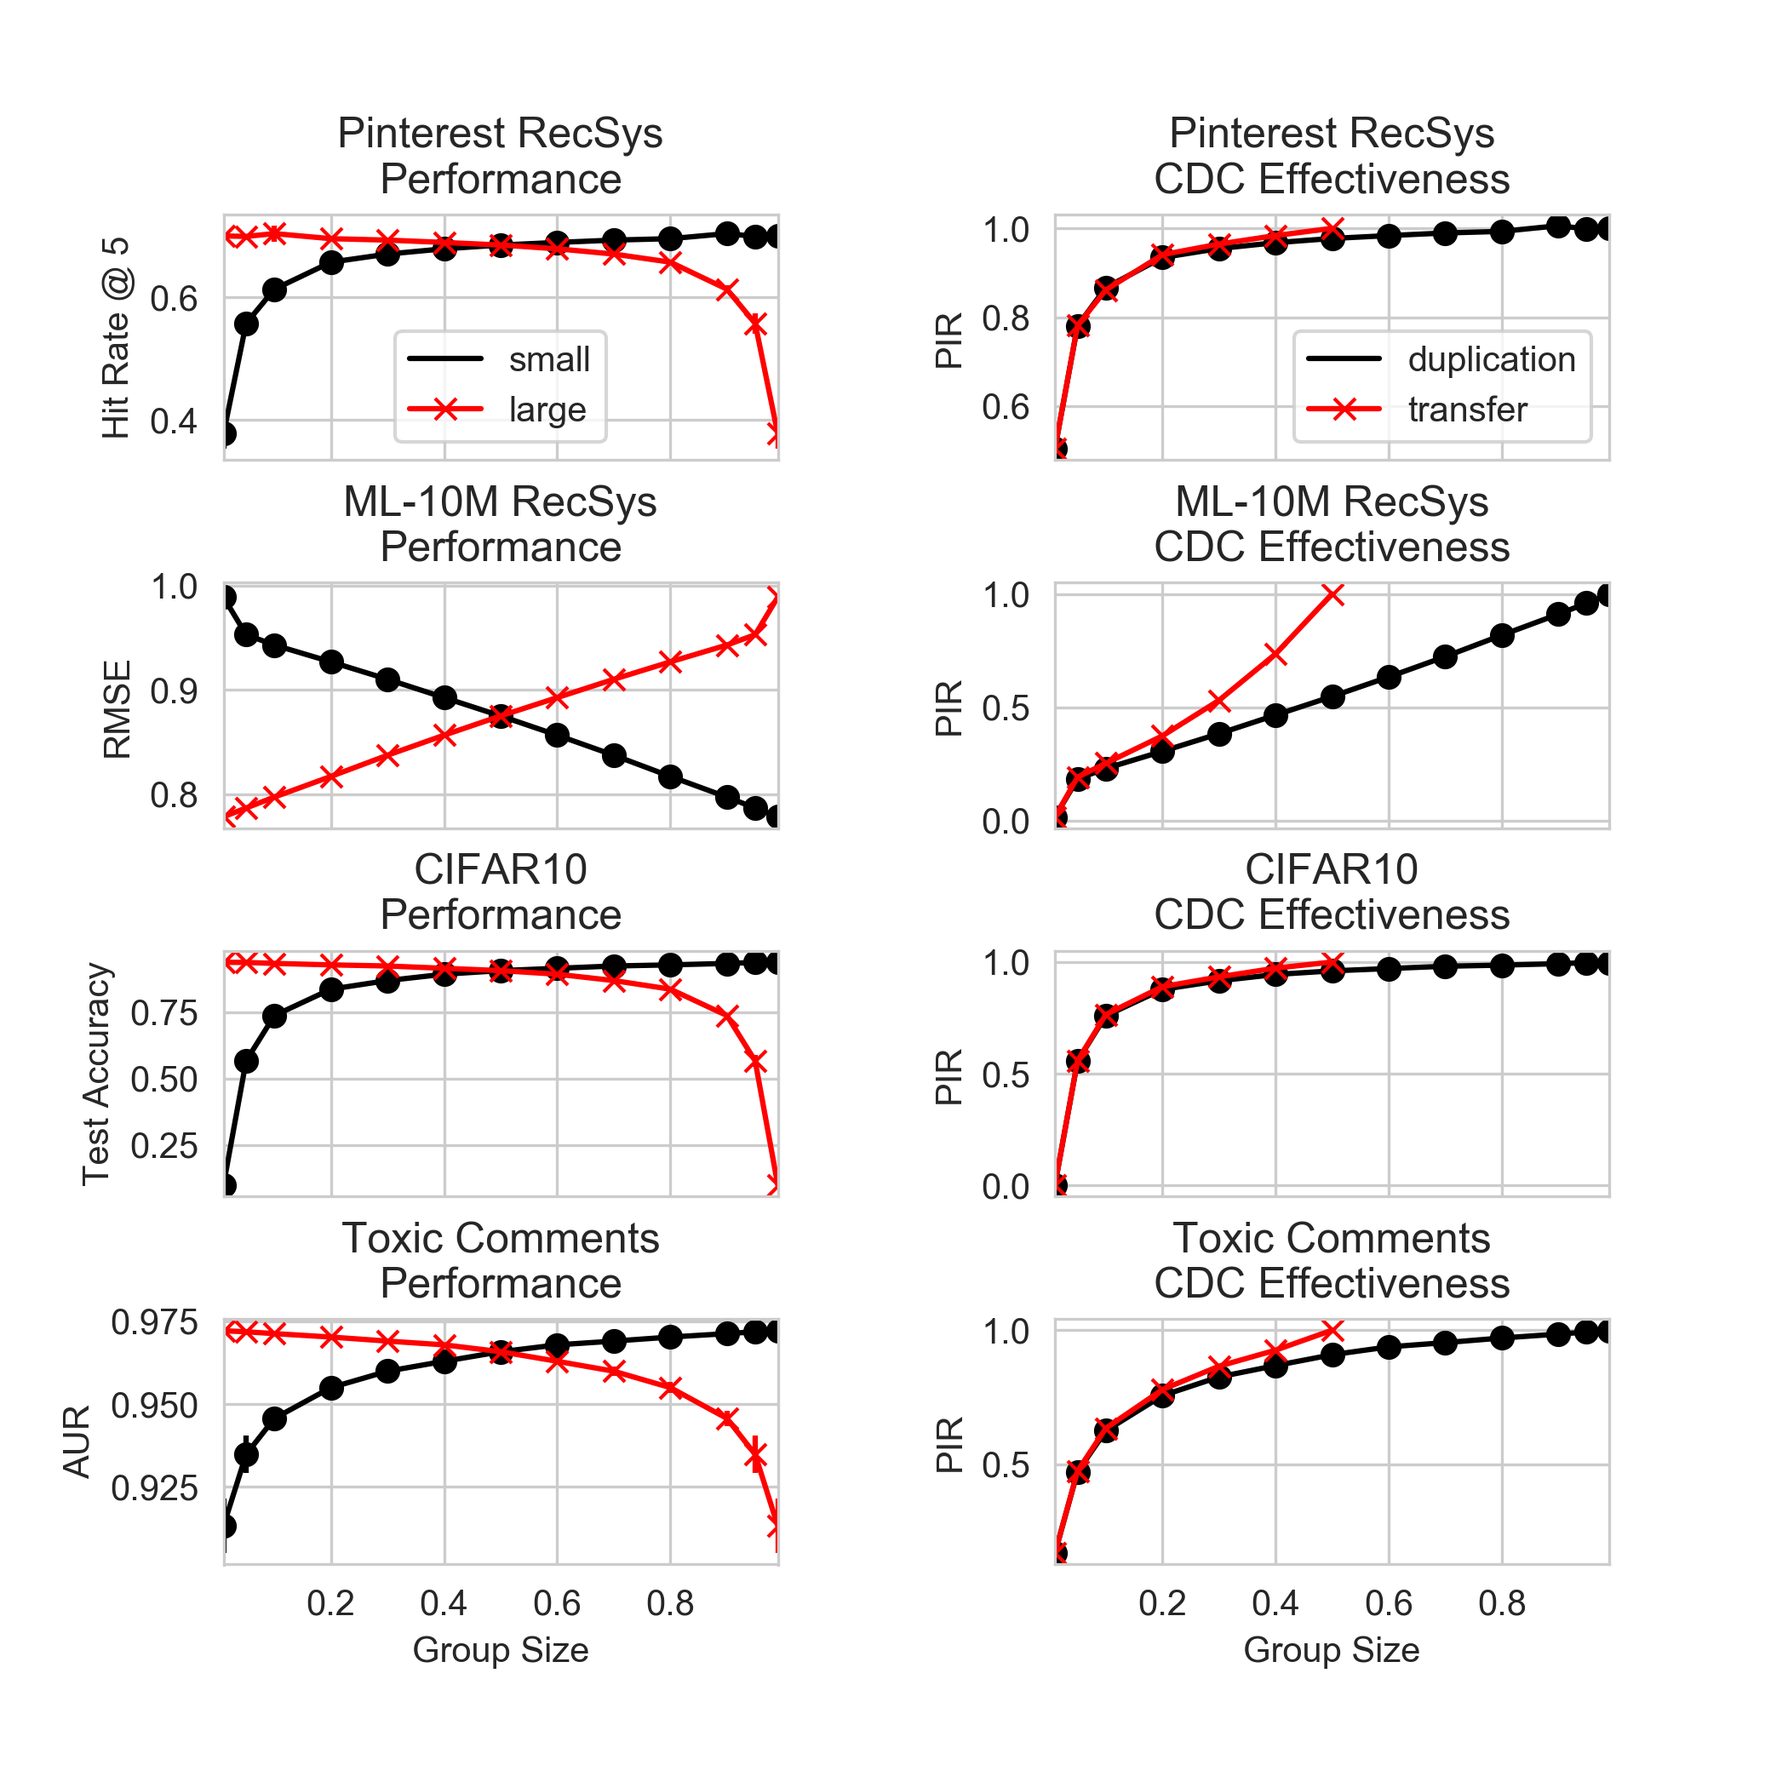
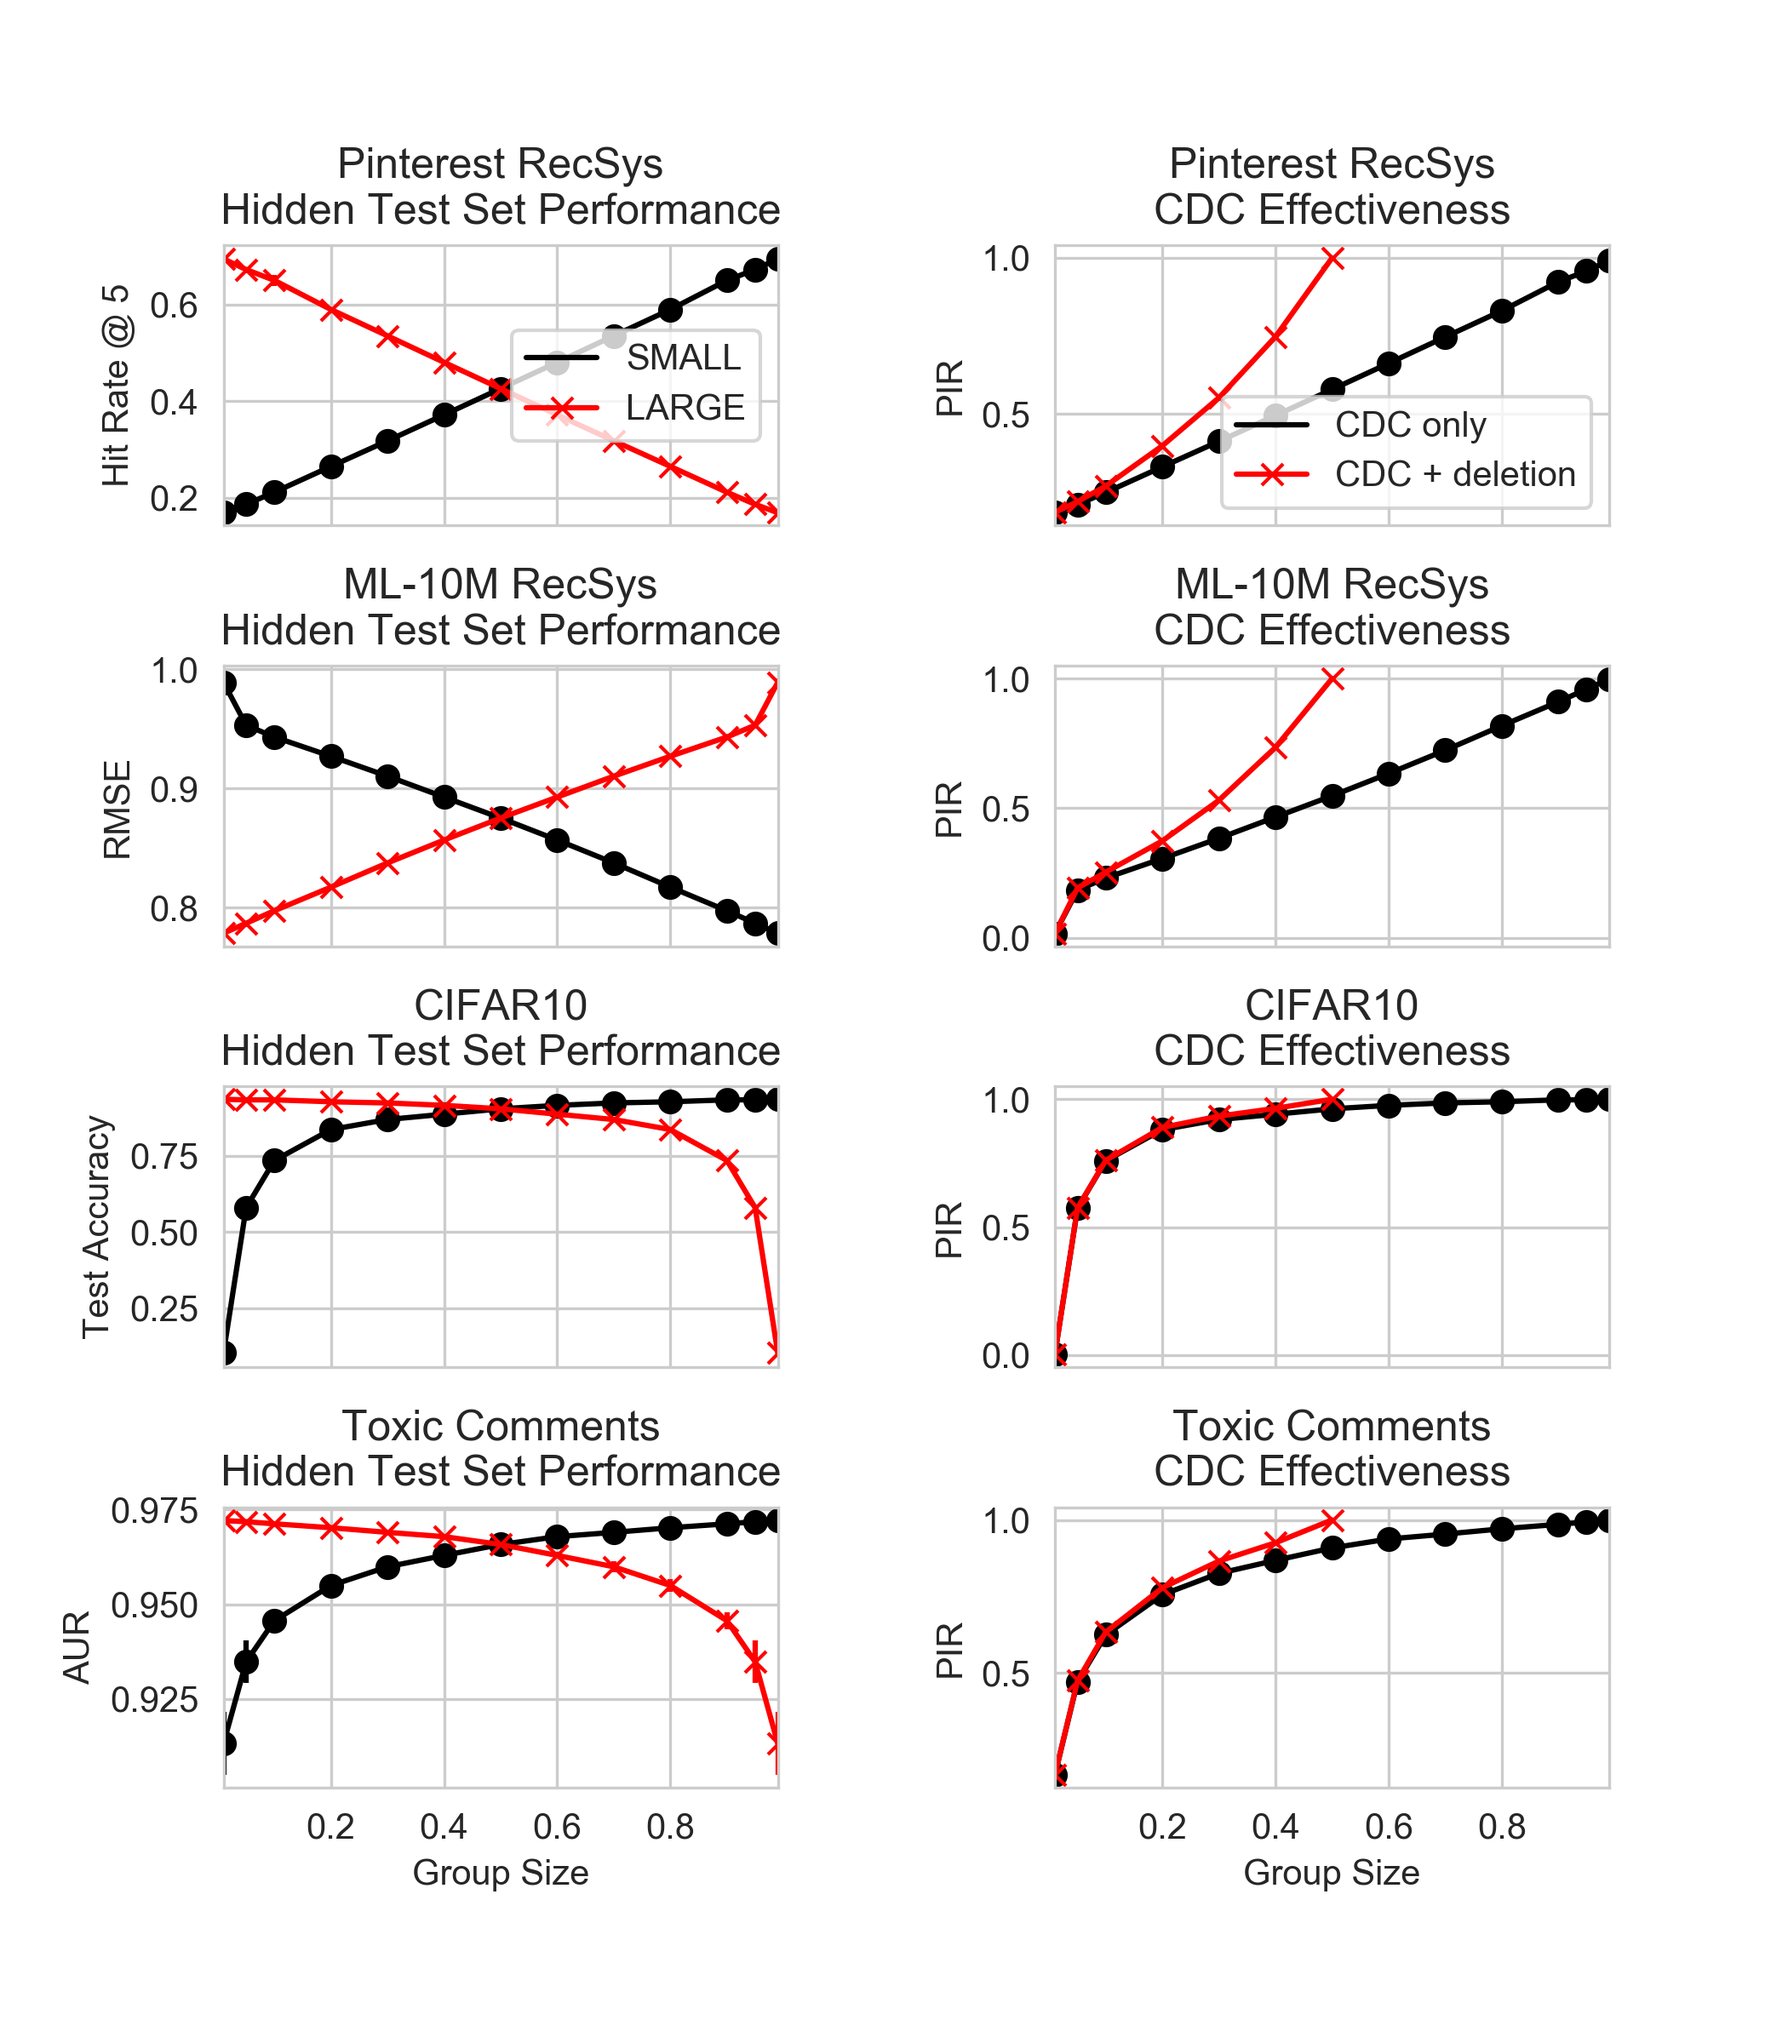
finish merge of tweaks + vandalism WIP

diff --git a/cdc_split.py b/cdc_split.py
@@ -6,19 +6,27 @@ import os
 from sklearn.feature_extraction.text import TfidfVectorizer
 from scipy.sparse import hstack, save_npz
 import sys
+# import argparse
+
+# parser = argparse.ArgumentParser(description='Split data for a data leverage campaign')
+# parser.add_argument('integers', metavar='N', type=int, nargs='+',
+#                     help='an integer for the accumulator')
+# parser.add_argument('--sum', dest='accumulate', action='store_const',
+#                     const=sum, default=max,
+#                     help='sum the integers (default: find the max)')
+
+# args = parser.parse_args()
 #%%
 # fracs = []
 # for i in range(1, 20):
 #     fracs.append(round(i * 0.05, 2)
+#if fracs == 'full':
 fracs = [0.01, 0.05, .1, .2, .3, .4, 0.5,]
 seeds = [0,1,2,3,4]
 seeds = [5,6,7,8,9]
 fracs
 
 #%%
-dataset = 'pinterest-20'
-dataset = 'ml-10m'
-dataset = 'toxic'
 dataset = sys.argv[1]
 
 
@@ -91,7 +99,7 @@ VALID_SEED = 100
 #%%
 for frac in fracs:
     for seed in seeds:
-        scenario = f'{frac}_random{seed}'
+        scenario = f'{frac}_{tactic}{seed}'
         print(f'scenario: {scenario}')
 
         if USER_SPLIT:
@@ -101,18 +109,33 @@ for frac in fracs:
             # if EVAL == 'loo': # we will need these below
             #     large_users = users.drop(small_users.index)
 
-
             #     small_valid_users = small_users.sample(frac=VALID_FRAC, random_state=VALID_SEED)
             #     small_valid_mask = users.isin(small_valid_users)
 
             #     large_valid_users = large_users.sample(frac=VALID_FRAC, random_state=VALID_SEED+1)
             #     large_valid_mask = users.isin(large_valid_users)
 
+            df_large = train_df[~small_mask]
+            df_small = train_df[small_mask] 
+
+            if tactic == 'randomvandal':
+                df_vandalised = df_small.copy()
+                df_vandalised.rating = np.random.randint(1,11, len(df_vandalised)) / 2
+                df_large = pd.concat([df_large, df_vandalised])
+            elif tactic == 'extremevandal':
+                df_vandalised = df_small.copy()
+                df_vandalised.loc[df_vandalised.rating < 3] = 1.0
+                df_vandalised.loc[df_vandalised.rating >= 3] = 5.0
+                df_large = pd.concat([df_large, df_vandalised])
             print('# strikers', len(small_users))
             print('# ratings for strikers', sum(small_mask))
+
+            
+
         else:
-            np.random.seed(seed)
-            small_mask = np.random.rand(len(train_df)) < frac
+            df_small = train_df.sample(frac=frac,random_state=seed) #random state is a seed value
+            df_large = train_df.drop(df_small.index)
+        assert len(df_large) + len(df_small) == len(train_df)
         
         preds_dir = f'{preds_folder}/{dataset}'
 
@@ -124,9 +147,6 @@ for frac in fracs:
             subdir = f'{data_folder}/{scenario}'
             if not os.path.isdir(subdir):
                 os.mkdir(subdir)
-            df_large = train_df[~small_mask]
-            df_small = train_df[small_mask]
-            assert len(df_large) + len(df_small) == len(train_df)
 
             for (subdf, name) in (
                 (df_large, 'large'),
@@ -186,7 +206,6 @@ for frac in fracs:
                         save_npz(f'{subdir}/{name}_valid', valid_features)
                         np.savez(f'{subdir}/{name}_valid_labels', labels=valid_labels.values)
 
-                        #f not os.path.exists(f'{data_folder}/hidden_test_processed'):
                         save_npz(f'{subdir}/{name}_hidden', test_features)
                         np.savez(f'{subdir}/{name}_hidden_labels', labels=test_labels.values)
                         break

diff --git a/compare_performance.py b/compare_performance.py
@@ -258,8 +258,8 @@ fig, ax = plt.subplots(nrows, 2, figsize=(7, 8), sharex=True)
 
 for i, (k, v) in enumerate(co_dfs.items()):
     nice_name = dataset_nice[k]
-    v.plot(x='frac', y='small', yerr='small_std', ax=ax[i, 0], label='small', color='k', marker='o')
-    v.plot(x='frac', y='large', yerr='large_std', ax=ax[i, 0], label='large', color='r', marker='x')
+    v.plot(x='frac', y='small', yerr='small_std', ax=ax[i, 0], label='SMALL', color='k', marker='o')
+    v.plot(x='frac', y='large', yerr='large_std', ax=ax[i, 0], label='LARGE', color='r', marker='x')
     v.plot(x='frac', y='duplication', ax=ax[i, 1], color='k', marker='o', label='CDC only')
     v.plot(x='frac', y='transfer', ax=ax[i, 1], color='r', marker='x', label='CDC + deletion')
 

diff --git a/scripts/run_libfm.py b/scripts/run_libfm.py
@@ -11,6 +11,10 @@ seeds = [
     2, 3, 4
 ]
 
+fracs = [0.1, 0.2]
+seeds = [0]
+tactic = 'randomvandal'
+
 for frac in fracs:
     for seed in seeds:
         format_call = f'{pre}/scripts/triple_format_to_libfm.pl'
@@ -19,7 +23,7 @@ for frac in fracs:
             'small',
             'large'
         ]:
-            scenario = f'{frac}_random{seed}'
+            scenario = f'{frac}_{tactic}{seed}'
             train_data = f'{pre}/data/ml-10m/{scenario}/{company}_train0.csv'
             formatted_train_data = f'{train_data}.libfm'
             test_data = f'{pre}/data/ml-10m/{scenario}/{company}_test0.csv'

diff --git a/scripts/eval_libfm.py b/scripts/eval_libfm.py
@@ -17,13 +17,19 @@ pre = 'libFM/libfm-1.42.src'
 
 seeds = [0,1,2,3,4]
 fracs = ['0.01', '0.05', '0.1', '0.2', '0.3', '0.4', '0.5']
+
+fracs = [0.1, 0.2]
+seeds = [0]
+tactic = 'randomvandal'
+
+
 rows = []
 hidden = pd.read_csv(
     f'{pre}/data/ml-10m/hidden_test.csv',
     header=0, names=['user', 'item', 'rating', 'timestamp'])
 for frac in fracs:
     for seed in seeds:
-        scenario = f'{frac}_random{seed}'
+        scenario = f'{frac}_{tactic}{seed}'
         for entity in [
             'small', 
             'large'
